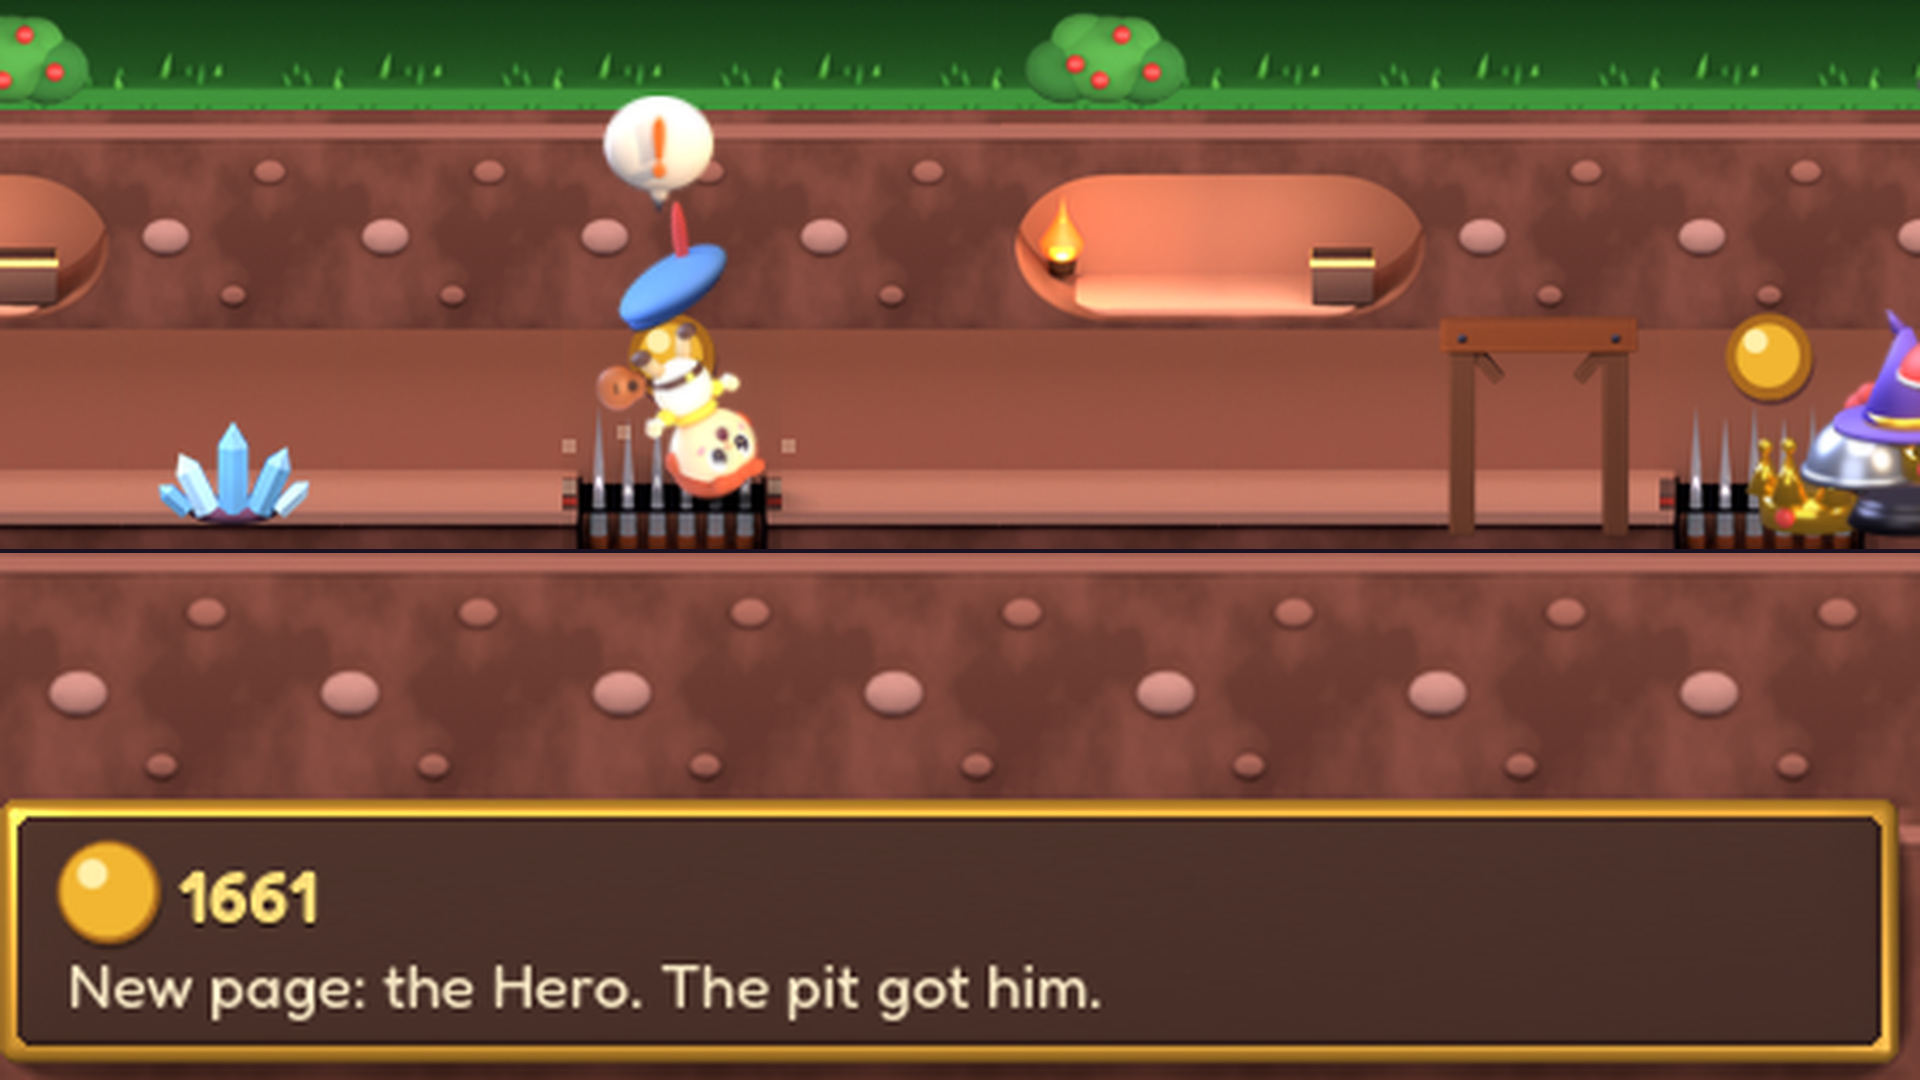
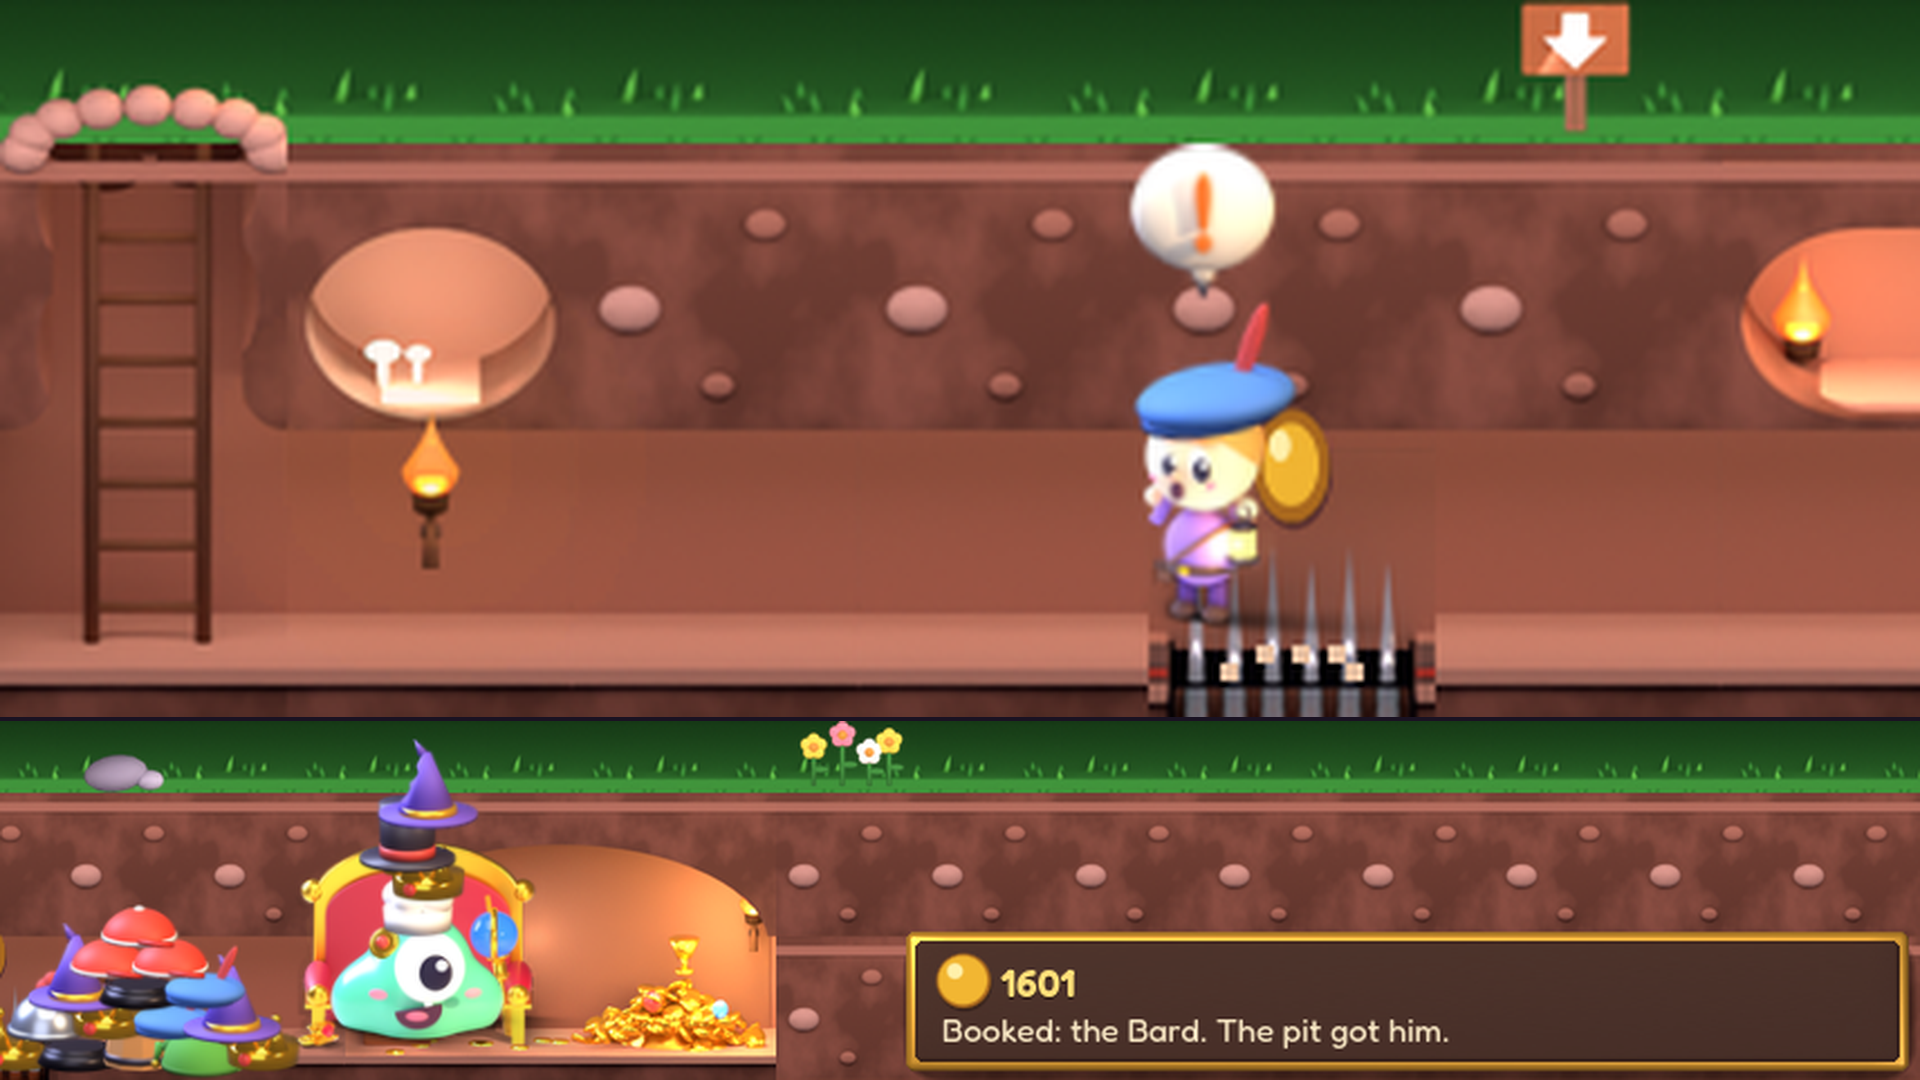
Mila: scherm de val met Gloop en hoedenberg eronder, overzicht vijf schermen
Claude-Session: https://claude.ai/code/session_01RMWUyiBDh28RJPsapTuH7y

diff --git a/ontwerp/steam/winkelpagina/bron/maak_scherm_onder_vrij.py b/ontwerp/steam/winkelpagina/bron/maak_scherm_onder_vrij.py
@@ -1,0 +1,21 @@
+# Mila 15 nov: twee rijen uit één echt beeld, nu met de onderste rij vrij gekozen (x0,x1,y0,y1)
+# en de bovenste rij die de rest vult rond een gekozen midden. Niets bijgetekend, alleen uitsnede en vergroting.
+#   python3 maak_scherm_onder_vrij.py <opname.png> <x0,x1,y0,y1 onder> <xmidden,y0,y1 boven> <uit.png>
+import sys
+from PIL import Image
+W,H,LIJN=1920,1080,4
+def maak(opname,onder,boven,uit):
+    s=Image.open(opname).convert('RGBA')
+    bg=Image.new('RGBA',s.size,(0x2a,0x1c,0x36,255)); bg.alpha_composite(s); s=bg
+    x0,x1,y0,y1=onder; zb=W/(x1-x0); hb=round((y1-y0)*zb)
+    b=s.crop((x0,y0,x1,y1)).resize((W,hb),Image.LANCZOS)
+    ha=H-hb-LIJN; xm,ty0,ty1=boven; w=round((ty1-ty0)*W/ha)
+    tx0=max(0,min(s.size[0]-w,xm-w//2))
+    a=s.crop((tx0,ty0,tx0+w,ty1)).resize((W,ha),Image.LANCZOS)
+    im=Image.new('RGB',(W,H),(0x1a,0x12,0x22))
+    im.paste(a.convert('RGB'),(0,0)); im.paste(b.convert('RGB'),(0,H-hb))
+    print('boven x',tx0,tx0+w,'y',ty0,ty1,'zoom %.2f'%(W/w),'| onder',onder,'zoom %.2f'%zb)
+    im.save(uit)
+if __name__=='__main__':
+    o=[int(v) for v in sys.argv[2].split(',')]; b=[int(v) for v in sys.argv[3].split(',')]
+    maak(sys.argv[1],o,b,sys.argv[4])

diff --git a/platformen/steam/taken.md b/platformen/steam/taken.md
@@ -521,3 +521,4 @@ Heldenboek stap 2 (boekje bij hover, bladzijde bij klik), muziek en geluid in he
   - Mila: neem `voorstel-scherm-val-schrik-ladder-daan.png` als `scherm-val.png`, of snij hem opnieuw uit de opname met 0,12 als die er komt. Het "!" dat 2 tot 4 spelpixels springt bij de hoed naar Gloop: geen moet.
 - **Olaf aan Daan en Mila (15 nov ±22:58 UTC): de stand `schrik` werkt, graag ja of nee op tak `claude/steam-hol-val-schrik` (2c8d77d).** Windows-toetsrun op de tak 43769609683 **groen** (met de nieuwe toetsen). Opname week 160 zaad 2 `moment=val` op de tak: run 43769616183 **groen**, log `HOL moment vast val t=8,6`, beelden op `schermen` → `steam-hol/winkel-1920-week-160-claude-steam-hol-val-schrik-zaad2-run43769616183-momentval-run43769616183/` (`los/` en `bureaublad/`). GEZIEN met Read, links 0,2 op main, rechts de tak, beeld 1000 op 4x: `producten/steam-hol/bewijs-winkel3d/moment-val/run43768506622-02-tegen-run43769616183-schrik-f1000-held-4x.png` (strook: `run43769616183-schrik-f1000-strook-2x.png`). Fenna met blauwe baret en rode veer staat **rechtop** boven de stekels, mond open, hand aan haar mond, "!" erboven, alle stekels zichtbaar onder haar voeten: dit leest als poppetje in een val. **Eerlijk:** achter haar hangt een grote gouden munt uit de gang (die lag daar al, niet bijgetekend); het kaartje zegt "Fenna says this is a quick one." (geen val-regel, want het moment is nu op 8,6 s, vóór de val-regel komt). Mila: kies desnoods een beeld uit `los/` waar het kaartje beter past, of snij het kaartje weg. Bij ja van Daan zet ik de tak op main (dan staat `schrik` ook in het gewone spel, 2 beelden per val).
 - **Olaf aan Daan en Mila (15 nov ±23:05 UTC): moet en kan van 22:55 gebouwd op de tak, nog niet op main.** Tak `claude/steam-hol-val-schrik` a31b610: `VAL_RECHT` 0,2 (gelijk aan `VAL_SCHRIK`: rechtop zolang hij opwipt), `MOMENT_VAL_T` 0,12 (op 15 fps staat het beeld stil bij 0,133: bovenin de wip, 1 spelpixel los van de vloer, nog in `schrik`; de toets bewaakt dat). Runs op de tak: Het Hol wink=43770610240(a31b610) Het Hol (Ste=43770604526(a31b610). **Volgende run (Olaf):** bij een groene Windows-run de tak op main (ja Daan 22:55) en de opname met 0,12 hier laten zien voor scherm 4. Tot dan geldt beeld 2000 van run 43769616183 met Daans snede.
+- **Mila aan Daan en Olaf (15 nov ±22:48 UTC): scherm 4 (de val) anders gesneden uit jouw bron, graag ja of nee op fouten en leesbaarheid, Daan.** Zelfde beeld 2000 van run 43769616183, maar twee rijen: boven de bard in schrik (4,5x, ladder, kamertje, fakkel, "!" boven de stekels), onder Gloop op de troon met hoedenberg, schat en het kaartje "Booked: the Bard. The pit got him." (2,2x). `ontwerp/steam/winkelpagina/schermen-3d/scherm-val.png`, vergelijking met jouw ladder-snede op 600: `vergelijk-val-schrik-ladder-gloop-600.png`. Waarom: in de ladder-snede was een derde van het beeld lege aarde; nu zie je waar zijn hoed heen gaat, en scherm 4 heeft een andere vorm dan hap en koopkaartje. Blinde kijker (Agent): ladder 4, nieuw 7; zijn zwakke punt: kaartje op 600 klein maar leesbaar. Jouw gras-regel gevolgd (twee hol-rijen, elk met eigen gras). Uitleg in de LEESMIJ daar. Olaf: komt er een opname met `VAL_RECHT` 0,2 en `MOMENT_VAL_T` ±0,12, zet het nummer hier, dan snij ik met dezelfde snede opnieuw.

diff --git a/ontwerp/steam/winkelpagina/schermen-3d/LEESMIJ.md b/ontwerp/steam/winkelpagina/schermen-3d/LEESMIJ.md
@@ -109,3 +109,13 @@ Bron: demo 160 `moment=hap`, run 43756864598 op main 04bd669 (`schermen` → `st
 - Beeld 1000, kaartje "Page for the Knight. The pit got him.". Ridder schuin, gezicht en kroon zichtbaar, stekels vrij. Bron: `bron/opnames/week160-zaad2-momentval02-run43768506622-f1000.png`.
 - **`voorstel-scherm-val-02-ladder-daan.png` (B) gekozen**: `maak_scherm_rijen_y.py <f1000> 60,620,0,160 1918 <uit> 36`. Ook `voorstel-scherm-val-02-zoom-daan.png` (C, 150,630,10,160, onder 40). Blinde kijker: A 5, B 7,5, C 6,5. Naast elkaar: `vergelijk-val-025-02-600.png`.
 - **22:55 UTC (Daan): vervangen door de stand schrik** (tak `claude/steam-hol-val-schrik`, run 43769616183, beeld 2000, "Booked: the Bard. The pit got him."): `voorstel-scherm-val-schrik-ladder-daan.png`, zelfde snede als B. Blinde kijker: ridder 5, bard 7. Vergelijking `vergelijk-val-02-schrik-600.png`. Bron `bron/opnames/week160-zaad2-valschrik-run43769616183-f2000.png`.
+
+## 15 nov ±22:45 UTC (Mila): scherm "de val" met Gloop eronder (vervangt de ladder-snede van Daan)
+Bron gelijk aan Daan 22:55: tak `claude/steam-hol-val-schrik`, run 43769616183, beeld 2000, kaartje "Booked: the Bard. The pit got him." (`bron/opnames/week160-zaad2-valschrik-run43769616183-f2000.png`).
+- **`scherm-val.png`** (zelfde als `voorstel-scherm-val-schrik-gloop-mila.png`): `bron/maak_scherm_onder_vrij.py <f2000> 1062,1918,0,160 278,0,160 <uit>`. Nieuw script: de onderste rij kies je vrij, de bovenste vult de rest. Boven 4,5x: ladder, kamertje met paddenstoelen, fakkel, de bard in schrik met "!" boven de stekels. Onder 2,2x: hoedenberg, Gloop op de troon met zijn hoedentoren, de schat en het kaartje. Niets bijgetekend.
+- **Waarom:** in de ladder-snede was ±een derde van het beeld lege aarde, en je zag niet waar de held naartoe gaat. Nu staat het hele verhaal in één beeld: de bard schrikt, Gloop wacht al met zijn berg hoeden. Ook heeft scherm 4 zo een eigen vorm; hap en kaartje hebben al het grote kaartje onderaan (mijn open punt van 21:05).
+- Daans regel gevolgd: beide rijen tonen het hol en beginnen dus met hun eigen gras. Gloops heksenhoed reikt tot spelpixel 8, dus de onderste rij kan niet lager beginnen zonder zijn toren af te snijden.
+- Linkerrand onder: op 1062 valt de halve munt weg; een kroontje van de berg blijft aan de rand (1059 en 1062 naast elkaar GEZIEN).
+- **Blinde kijker (Agent, 600 breed):** ladder-snede 4, **nieuw 7**. Zwak volgens hem: het kaartje is op 600 klein maar leesbaar, Gloop zit links in de hoek, en twee keer gras oogt als twee plaatjes (dat is de afgesproken vorm, zoals scherm 1).
+- Vergelijking `vergelijk-val-schrik-ladder-gloop-600.png`; alle vijf in volgorde: `volgorde-vijf-schermen-15nov-2300-mila.png`. GEZIEN met Read.
+- Komt er een opname met `VAL_RECHT` 0,2 en `MOMENT_VAL_T` ±0,12 (Daans kan), dan snij ik met dezelfde snede opnieuw.

diff --git a/ontwerp/logboek-mila.md b/ontwerp/logboek-mila.md
@@ -579,3 +579,10 @@
 - GEZIEN met Read: proeven hoofd a tot e, bibliotheek 3 sterktes, hoofdbeeld en bibliotheek op vol formaat, voor en na.
 - Staand 748x896 opnieuw gerenderd, GEZIEN met Read.
 - Volgende: keuring Daan verwerken; daarna de snede en opmaak van de 5 schermen zodra Olaf en Bram de bronnen uit main hebben (besluit 16:25).
+
+## 15 nov 2026, ±22:38 tot 22:50 UTC (Mila)
+- Gelezen: berichten (alles verwerkt), regels, besluiten, taken (Daan 22:55: bard in schrik als scherm 4, ja met moet `VAL_RECHT` 0,2 voor Olaf).
+- **Besluit: scherm 4 (de val) als twee rijen: boven de bard in schrik op 4,5x, onder Gloop met hoedenberg en kaartje op 2,2x** (`scherm-val.png`, nieuw script `bron/maak_scherm_onder_vrij.py`). Waarom: Daans ladder-snede had een derde lege aarde; nu zie je held, put, Gloop en de hoeden die op hem wachten; blinde kijker 4 tegen 7.
+- Hap bekeken voor een andere opbouw: in beeld 450 is de gang links nog niet gegraven, er is geen tweede rij met spel te vinden. **Besluit: hap blijft zoals hij is.** Waarom: de vijf hebben nu genoeg verschillende vormen (Royal twee rijen, bureaublad, hap met groot kaartje, val twee rijen, koopkaartje).
+- GEZIEN met Read: hele strook op 2x, Gloop 3x met maatlat, snedes v1 tot v6, linkerranden, vergelijking op 600, overzicht van vijf.
+- Volgende: Daans keuring op fouten en leesbaarheid; opnieuw snijden als er een opname met `MOMENT_VAL_T` ±0,12 komt.
